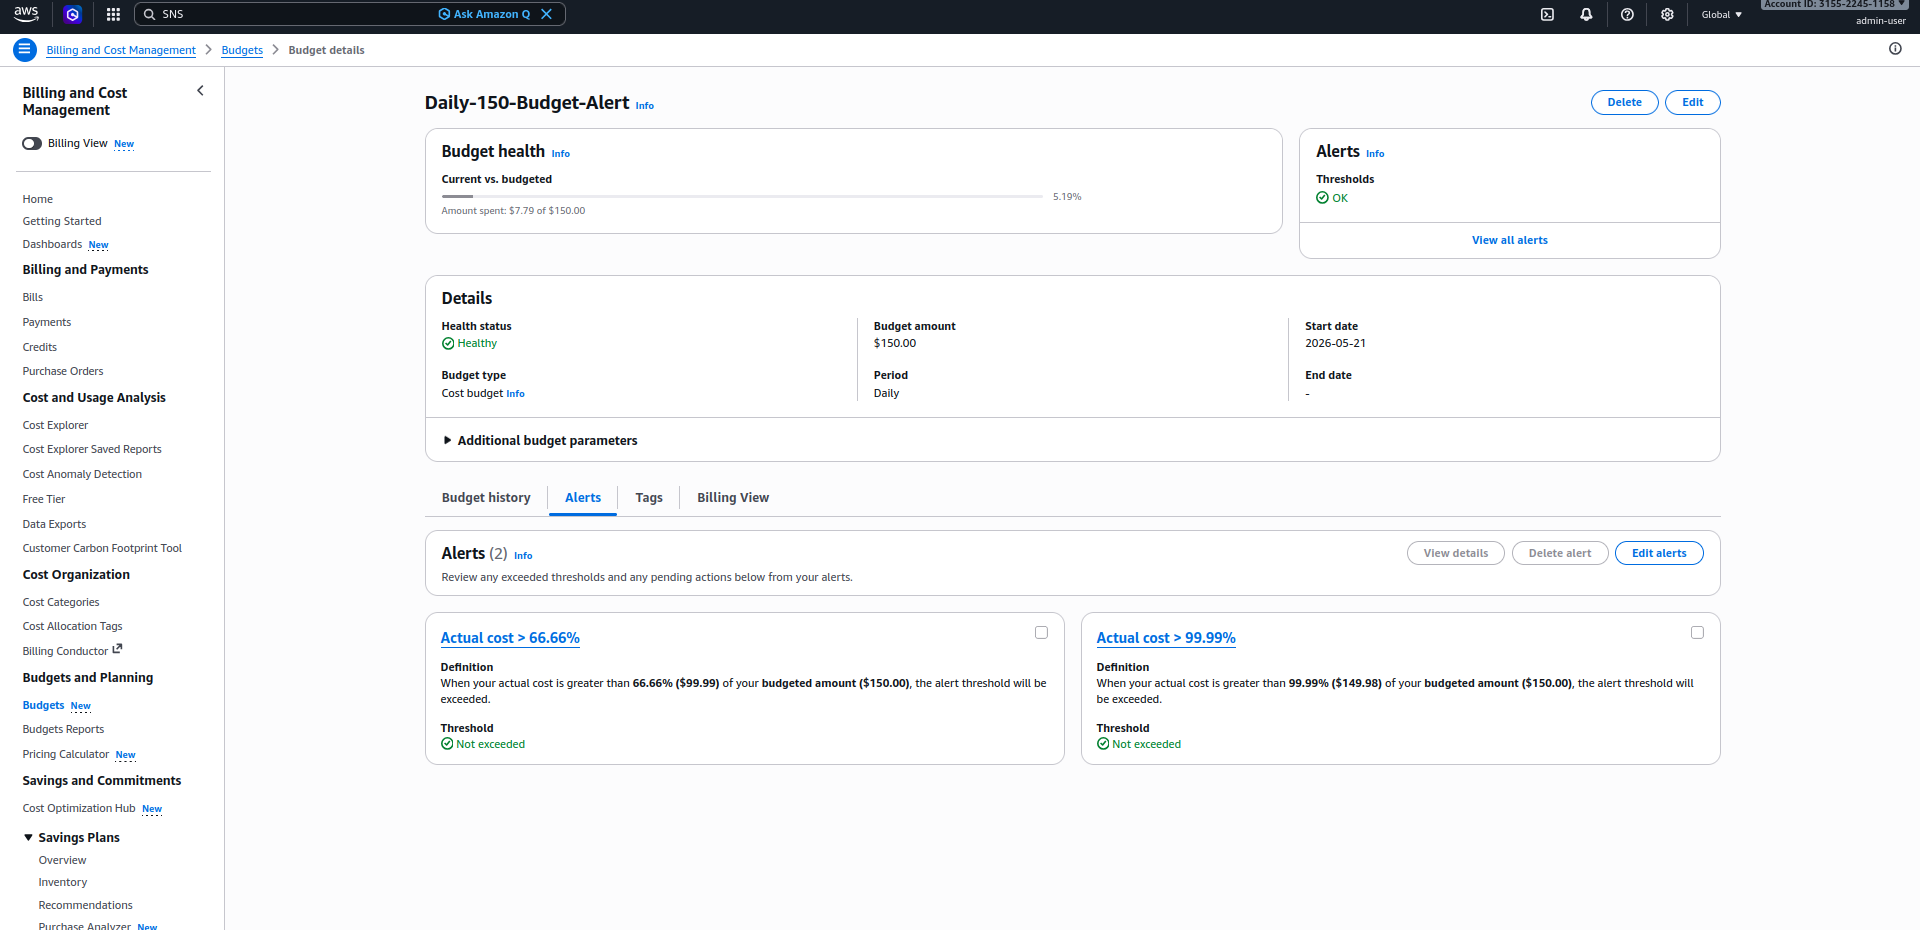
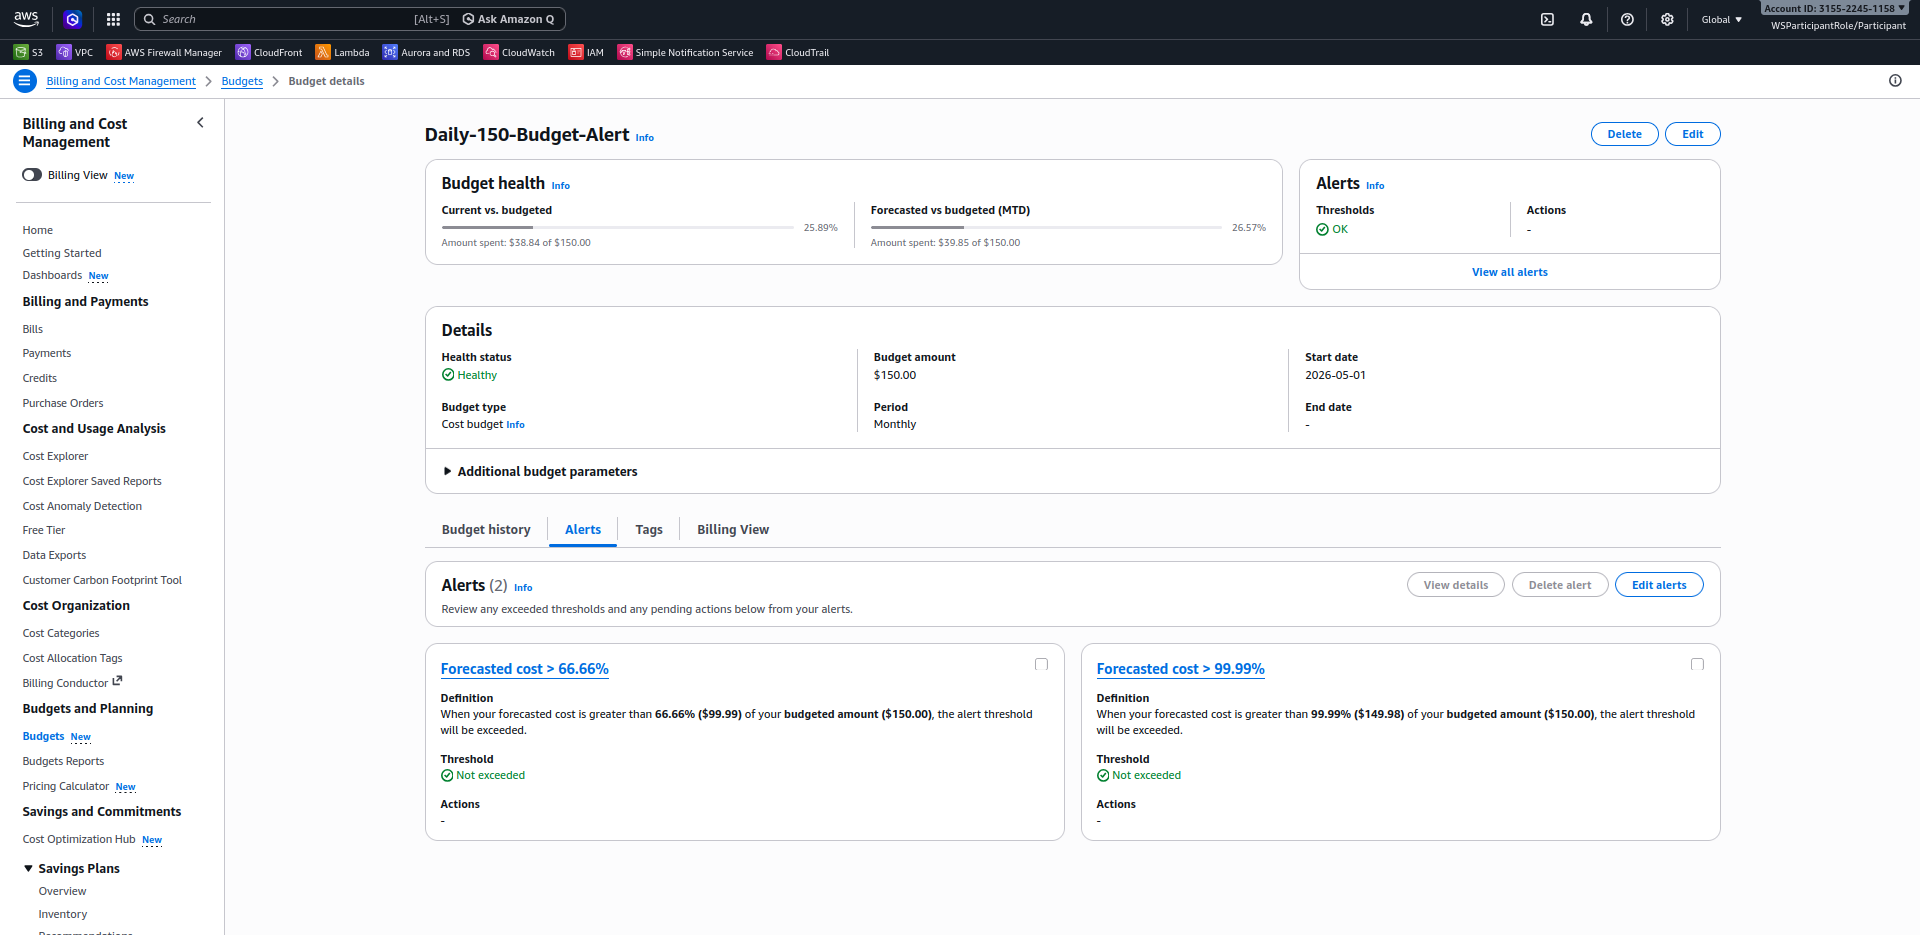
docs: update budget section to monthly unblended costs and add metric details

diff --git a/evidence_pack/W6_evidence.md b/evidence_pack/W6_evidence.md
@@ -51,14 +51,28 @@ All infrastructure is deployed via **Terraform**. We utilize the `default_tags` 
 
 We use **AWS Budget** to set up cost monitoring and alerts. Budget allows us to define spending thresholds and receive notifications when costs exceed these limits.
 
-We set the Period to Daily, so the budget is calculated daily. Make sure to choose **Recurring budget** so that everytime it's the first day of the month, the budget is reset.
+We set the Period to Monthly, so the budget is calculated monthly. Make sure to choose **Recurring budget** so that everytime it's the first day of the month, the budget is reset.
 
 ![Creating Budget](../assets/CreateBudget.png)
 
-In this case, we setup a budget of 150$ to monitor our AWS costs. We also configured a notification alert to be sent when costs exceed the thresholds.
+For option "Aggregate costs by", we choose "Unblended costs". Since this is a workshop environment, we use unblended costs to get the most accurate cost monitoring.
 
-- When **Actual cost > 66.66% ($99.99) of the $150**, it triggers a notification alert, which sent to the email address and also alerts the SNS (BudgetAlerts_Topic). This is the first warning threshold.
-- When **Actual cost > 99.99% ($149.99) of the $150**, it triggers a notification alert, which sent to the email address and also alerts the SNS (BudgetAlerts_Topic). This is the final warning threshold.
+| Metric Name | What It Does (The Alarm Math) | Good For |
+| :--- | :--- | :--- |
+| **`Unblended`** | Looks at your raw, un-discounted daily bill. | Standard accounts where you pay exactly for what you use by the hour. |
+| **`Amortized`** | Splits big upfront annual fees evenly over every single day. | Stopping "false alarm" alerts when a major subscription renews. |
+| **`Blended`** | Averages your costs with all other team accounts in a big company. | High-level corporate overviews across multiple departments. |
+| **`Net Unblended`** | Looks at your raw bill **after** subtracting free credits and coupons. | Tracking real out-of-pocket cash when using promo vouchers. |
+| **`Net Amortized`** | Splits upfront fees evenly **and** subtracts free credits simultaneously. | Production environments to see your absolute, final bottom-line cost. |
+
+![Creating Budget 2](../assets/CreateBudget1.png)
+
+In this case, we setup a budget of 150$ monthly to monitor our AWS costs. We also configured a notification alert to be sent when costs exceed the thresholds.
+
+- When **Forecasted cost > 66.66% ($99.99) of the $150**, it triggers a notification alert, which sent to the email address and also alerts the SNS (BudgetAlerts_Topic). This is the first warning threshold.
+- When **Forecasted cost > 99.99% ($149.99) of the $150**, it triggers a notification alert, which sent to the email address and also alerts the SNS (BudgetAlerts_Topic). This is the final warning threshold.
+
+Forecasted cost means it will predict the cost for the this month based on historical usage. And it will compare this forecasted cost with the budget threshold to trigger alerts. Thus, it helps us to detect and respond to cost spikes or anomalies before they exceed the budget.
 
 ![Budget Image](../assets/BudgetDetail.png)
 ![Budget Image 2](../assets/BudgetDetail1.png)
